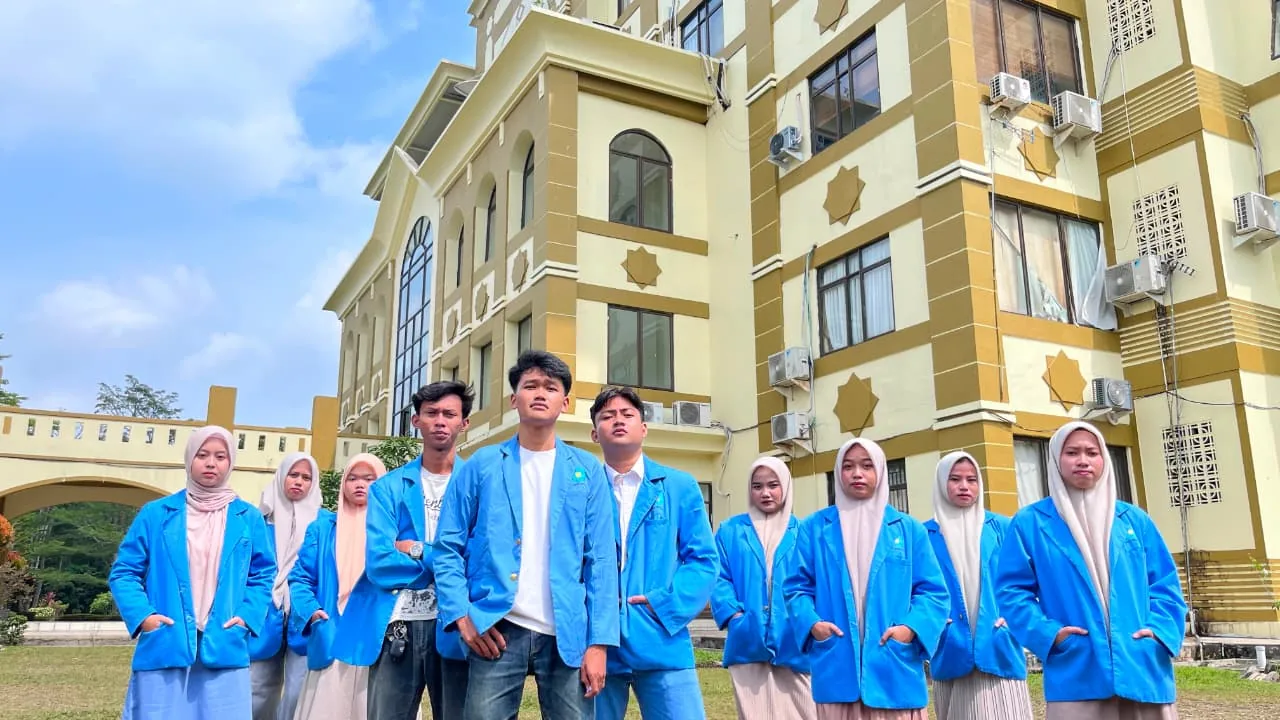
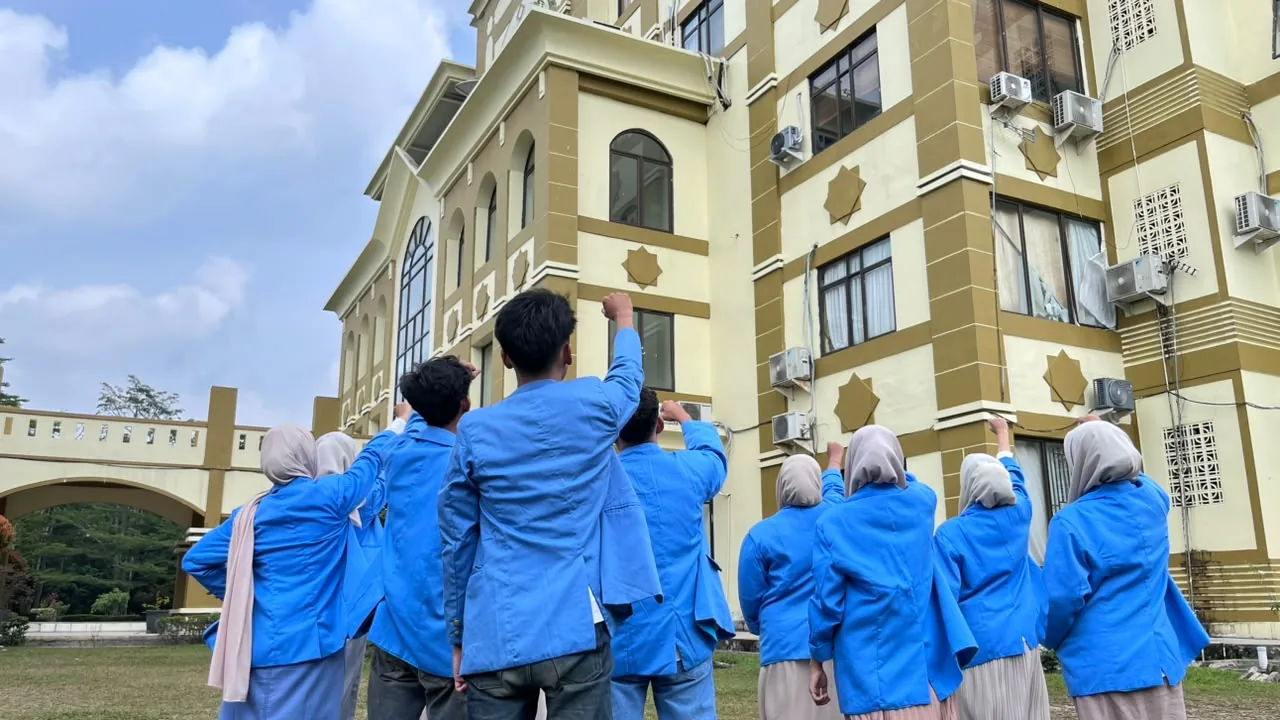
perf: optimize gallery hero, footer map asset, font delivery, and hero preload

diff --git a/index.html b/index.html
@@ -3,9 +3,18 @@
   <head>
     <meta charset="UTF-8" />
     <meta name="viewport" content="width=device-width, initial-scale=1.0" />
+    
+    <!-- Critical Asset Preconnect & Preload -->
     <link rel="preconnect" href="https://fonts.googleapis.com">
     <link rel="preconnect" href="https://fonts.gstatic.com" crossorigin>
-    <link href="https://fonts.googleapis.com/css2?family=Inter:wght@400;500;600;700&family=Outfit:wght@400;500;600;700&display=swap" rel="stylesheet">
+    <link rel="preload" as="style" href="https://fonts.googleapis.com/css2?family=Inter:wght@400;500;600;700&family=Outfit:wght@400;500;600;700&display=swap">
+    <link rel="stylesheet" href="https://fonts.googleapis.com/css2?family=Inter:wght@400;500;600;700&family=Outfit:wght@400;500;600;700&display=swap" media="print" onload="this.media='all'">
+    <noscript>
+      <link rel="stylesheet" href="https://fonts.googleapis.com/css2?family=Inter:wght@400;500;600;700&family=Outfit:wght@400;500;600;700&display=swap">
+    </noscript>
+
+    <link rel="preload" as="image" href="/images/home/home_hero_01_sm.webp" media="(max-width: 768px)" fetchpriority="high">
+    <link rel="preload" as="image" href="/images/home/home_hero_01.webp" media="(min-width: 769px)" fetchpriority="high">
     
     <!-- Primary Meta Tags -->
     <title>Profil Desa Air Putih — Dokumenter Digital</title>

diff --git a/src/components/layout/Footer/Footer.tsx b/src/components/layout/Footer/Footer.tsx
@@ -124,8 +124,12 @@ export function Footer() {
           <div className="w-full bg-[#172D21] border border-white/15 rounded-xl p-2 flex flex-col gap-2 shadow-sm">
             <div className="w-full h-20 rounded-lg overflow-hidden relative bg-stone-800">
               <img 
-                src="/images/profil/peta_administrasi.png" 
+                src="/images/profil/peta_thumb.webp" 
                 alt="Peta Desa Air Putih" 
+                width={350}
+                height={80}
+                loading="lazy"
+                decoding="async"
                 className="w-full h-full object-cover opacity-80"
                 onError={(e) => {
                   (e.target as HTMLElement).style.display = 'none';
